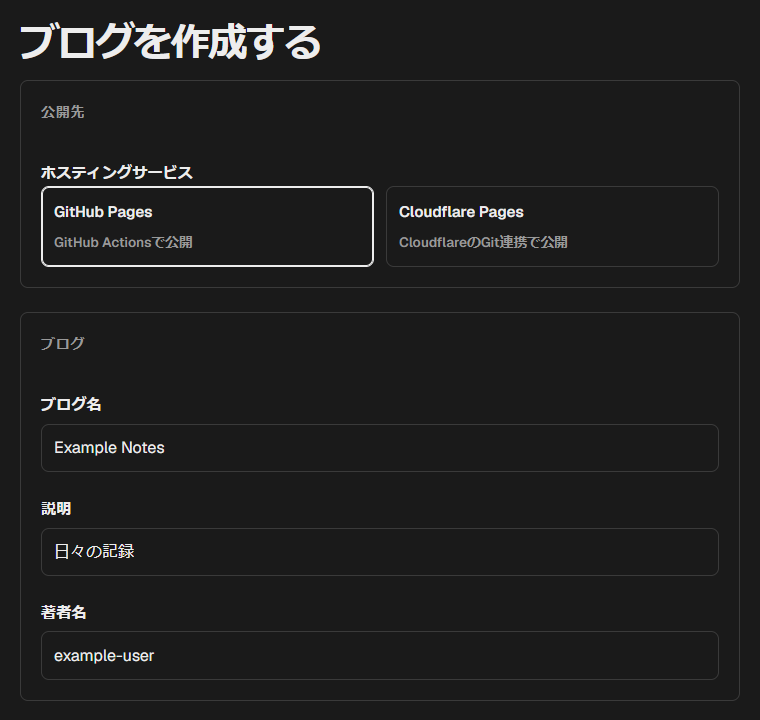
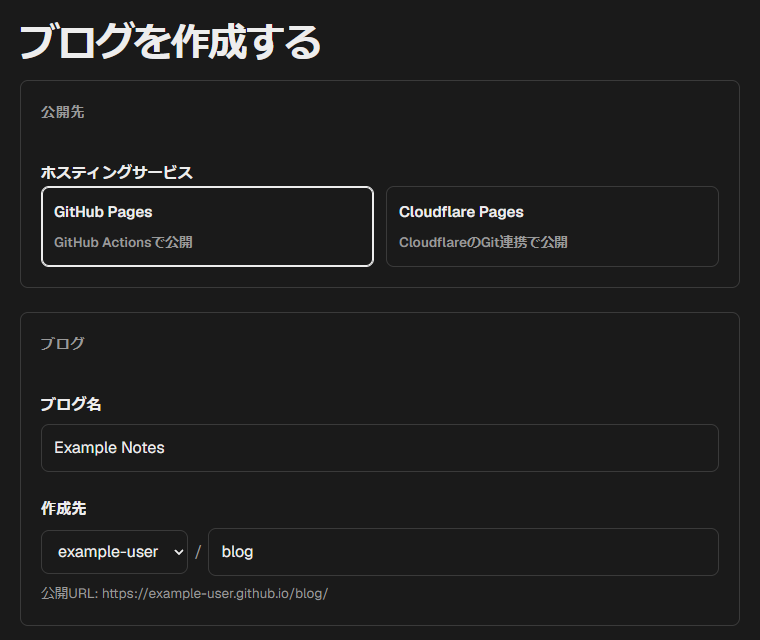
feat: collapse optional fields into advanced settings on the setup form

diff --git a/packages/web/src/SetupForm.svelte b/packages/web/src/SetupForm.svelte
@@ -99,7 +99,7 @@
       }
       const ownerType = owners.find((o) => o.login === owner)!.type;
       onSubmit({
-        title: title.trim(), description: description.trim(), author: author.trim(),
+        title: title.trim(), description: description.trim(), author: author.trim() || owner,
         owner, ownerType, repo, provider: selectedProvider,
         ...(selectedProvider === 'cloudflare-pages' ? { cloudflareAccountId: selectedCloudflareAccountId } : {}),
         ...(isGitLab ? { gitlabUrl } : {}),
@@ -179,18 +179,6 @@
       <input id="title" type="text" bind:value={title} required />
     </div>
     <div class="field">
-      <label for="description">説明</label>
-      <input id="description" type="text" bind:value={description} />
-    </div>
-    <div class="field">
-      <label for="author">著者名</label>
-      <input id="author" type="text" bind:value={author} required />
-    </div>
-  </section>
-
-  <section class="card stack">
-    <h2 class="section-title">リポジトリと公開URL</h2>
-    <div class="field">
       <label for="repo">作成先</label>
       <div class="repo-input">
         <select id="owner" bind:value={owner} aria-label="アカウント" style="width: auto">
@@ -209,27 +197,6 @@
         <p class="hint">公開URLは初回の公開時に決まります。</p>
       {:else}
         <p class="error-text">英数字、ハイフン、アンダースコア、ピリオドのみ使用できます{isGitLab ? '（先頭は英数字、末尾に .git は不可）' : ''}。</p>
-      {/if}
-      {#if useCustomDomain}
-        <div class="field">
-          <label for="custom-domain">独自ドメイン（任意）</label>
-          <input id="custom-domain" type="text" bind:value={customDomain} placeholder="blog.example.jp" autocomplete="off" spellcheck="false" />
-          {#if !domainValid}
-            <p class="error-text">ドメイン名のみを入力してください。</p>
-          {:else if domain}
-            <p class="hint">DNSで <code>{domain}</code> のCNAMEレコードを <code>{owner.toLowerCase()}.github.io</code> に設定してください（<a href="https://docs.github.com/ja/pages/configuring-a-custom-domain-for-your-github-pages-site/managing-a-custom-domain-for-your-github-pages-site" target="_blank" rel="noopener">設定方法</a>）</p>
-          {/if}
-        </div>
-      {/if}
-      <label class="checkbox">
-        <input type="checkbox" bind:checked={isPrivate} />
-        {isGitLab ? 'プロジェクト' : 'リポジトリ'}を非公開で作成する
-      </label>
-      {#if isPrivate}
-        <p class="hint">
-          {#if selectedProvider === 'github-pages'}非公開リポジトリでGitHub Pagesを利用するには、有料プランが必要です。{/if}
-          公開前の画像は、管理画面でプレビューできません。
-        </p>
       {/if}
     </div>
   </section>
@@ -256,14 +223,50 @@
       </div>
       <img class="preview-image" src={shot(theme, view)} alt="{theme} テーマのプレビュー" />
     </div>
-    <fieldset class="field">
-      <legend>言語</legend>
-      <div class="choices">
-        <label class="choice"><input type="radio" name="language" value="ja" bind:group={language} /><span class="choice-name">日本語</span></label>
-        <label class="choice"><input type="radio" name="language" value="en" bind:group={language} /><span class="choice-name">English</span></label>
-      </div>
-    </fieldset>
   </section>
+
+  <!-- 既定値のままでよい項目は折りたたむ -->
+  <details class="card">
+    <summary>高度な設定</summary>
+    <div class="stack" style="margin-top: 1rem">
+      <div class="field">
+        <label for="description">説明</label>
+        <input id="description" type="text" bind:value={description} />
+      </div>
+      <div class="field">
+        <label for="author">著者名</label>
+        <input id="author" type="text" bind:value={author} placeholder={owner} />
+      </div>
+      <fieldset class="field">
+        <legend>言語</legend>
+        <div class="choices">
+          <label class="choice"><input type="radio" name="language" value="ja" bind:group={language} /><span class="choice-name">日本語</span></label>
+          <label class="choice"><input type="radio" name="language" value="en" bind:group={language} /><span class="choice-name">English</span></label>
+        </div>
+      </fieldset>
+      {#if useCustomDomain}
+        <div class="field">
+          <label for="custom-domain">独自ドメイン（任意）</label>
+          <input id="custom-domain" type="text" bind:value={customDomain} placeholder="blog.example.jp" autocomplete="off" spellcheck="false" />
+          {#if !domainValid}
+            <p class="error-text">ドメイン名のみを入力してください。</p>
+          {:else if domain}
+            <p class="hint">DNSで <code>{domain}</code> のCNAMEレコードを <code>{owner.toLowerCase()}.github.io</code> に設定してください（<a href="https://docs.github.com/ja/pages/configuring-a-custom-domain-for-your-github-pages-site/managing-a-custom-domain-for-your-github-pages-site" target="_blank" rel="noopener">設定方法</a>）</p>
+          {/if}
+        </div>
+      {/if}
+      <label class="checkbox">
+        <input type="checkbox" bind:checked={isPrivate} />
+        {isGitLab ? 'プロジェクト' : 'リポジトリ'}を非公開で作成する
+      </label>
+      {#if isPrivate}
+        <p class="hint">
+          {#if selectedProvider === 'github-pages'}非公開リポジトリでGitHub Pagesを利用するには、有料プランが必要です。{/if}
+          公開前の画像は、管理画面でプレビューできません。
+        </p>
+      {/if}
+    </div>
+  </details>
 
   {#if error}<p class="error-text">{error}</p>{/if}
   <div class="actions">

diff --git a/packages/web/src/pages/About.svelte b/packages/web/src/pages/About.svelte
@@ -17,8 +17,8 @@
       <li>GitHub Actionsなどがサイトをビルドし、公開する</li>
     </ol>
     <figure class="shot">
-      <img class="shot-light" src="./screens/setup-light.png" alt="ブログの作成画面" width="760" height="720" loading="lazy" />
-      <img class="shot-dark" src="./screens/setup-dark.png" alt="ブログの作成画面" width="760" height="720" loading="lazy" />
+      <img class="shot-light" src="./screens/setup-light.png" alt="ブログの作成画面" width="760" height="640" loading="lazy" />
+      <img class="shot-dark" src="./screens/setup-dark.png" alt="ブログの作成画面" width="760" height="640" loading="lazy" />
       <figcaption class="hint">ブログの作成画面</figcaption>
     </figure>
   </section>
